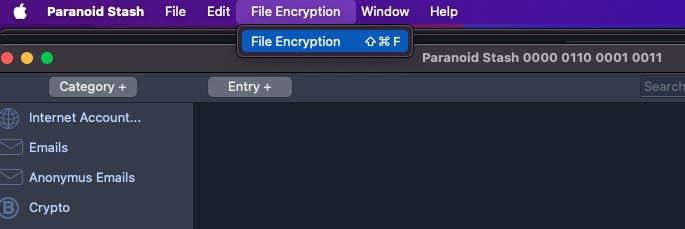
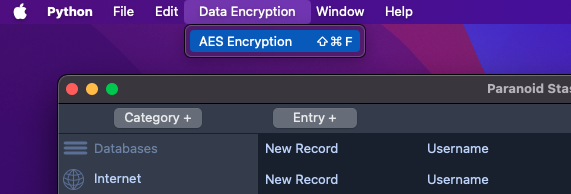
Removed large test file

diff --git a/GUI/modals/in_progress_popup.py b/GUI/modals/in_progress_popup.py
@@ -1,0 +1,236 @@
+import wx 
+
+from GUI.base_panel import BasePanel 
+
+
+#!/usr/bin/env python3
+
+
+
+import wx
+import pyperclip
+from pathlib import Path
+
+from manage_data.aes_encryption import AES_Encripton
+from GUI.base_panel import BasePanel
+from GUI.modals.popups import message_popup, select_file, save_file_as, dialog_popup
+from GUI.modals.copy_popup import CopyPopup
+
+# import logging 
+
+# Custom file handler that flushes after each log message
+# Custom stream handler that flushes after each log message
+# class FlushStreamHandler(logging.StreamHandler):
+#     def __init__(self, stream=None):
+#         super().__init__(stream)
+#         self.setLevel(logging.DEBUG)
+#         self.setFormatter(logging.Formatter('%(asctime)s - %(levelname)s - %(message)s'))
+    
+#     def emit(self, record):
+#         super().emit(record)
+#         self.flush()
+
+# # Set up logging to use FlushStreamHandler writing to a file
+# log_file = open("app.log", "a", buffering=1)
+# handler = FlushStreamHandler(stream=log_file)
+# logging.basicConfig(level=logging.DEBUG, handlers=[handler])
+
+
+
+class InProgressPanel(BasePanel):
+    def __init__(self, parent: wx.Frame) -> None:
+        super().__init__(parent)
+        
+        self._config = self._settings['file_encryption']
+        self._aes_encryption = AES_Encripton()
+        
+        self._init_ui()
+        self._bind_events()
+        
+        self.applay_color_theme()
+    
+    def _init_ui(self) -> None:
+        
+        main_box = wx.BoxSizer(wx.VERTICAL)
+        
+        file_path_box = wx.BoxSizer(wx.HORIZONTAL)
+        save_as_box = wx.BoxSizer(wx.HORIZONTAL)
+        password_box = wx.BoxSizer(wx.HORIZONTAL)
+        buttons_box = wx.BoxSizer(wx.HORIZONTAL)
+        
+        self._file = wx.TextCtrl(self, size=self._config['input_field_size'])
+        self._brows = wx.Button(self, label=self._config['brows_label'])
+        self._file.SetHint(self._config['file_hint'])
+        
+        self._save_as = wx.TextCtrl(self, size=self._config['input_field_size'], style=wx.TE_READONLY)
+        self._save_as.SetEditable(False)
+        self._copy_save_as = wx.Button(self, label=self._config['copy_label'])
+        self._save_as.SetHint(self._config['save_as_hint'])
+        
+        self._password = wx.TextCtrl(self, style=wx.TE_PROCESS_ENTER | wx.TE_PASSWORD, size=self._config['input_field_size'])
+        self._copy = wx.Button(self, label=self._config['copy_label'])
+        self._password.SetHint(self._config['password_hint'])
+        
+        self._decrypt = wx.Button(self, label=self._config['decrypt_label'])
+        self._encrypt = wx.Button(self, label=self._config['encrypt_label'])
+        
+        file_path_box.Add(self._file, 0, wx.RIGHT, 10)
+        file_path_box.Add(self._brows, 0, wx.TOP, 2)
+        
+        save_as_box.Add(self._save_as, 0, wx.RIGHT, 10)
+        save_as_box.Add(self._copy_save_as, 0, wx.TOP, 2)
+        
+        password_box.Add(self._password, 0, wx.RIGHT, 10)
+        password_box.Add(self._copy, 0, wx.TOP, 2)
+        
+        buttons_box.Add(self._decrypt)
+        buttons_box.Add(self._encrypt, 0, wx.LEFT, 40)
+        
+        main_box.Add(file_path_box, 0, wx.ALIGN_CENTER | wx.TOP, 30)
+        main_box.Add(save_as_box, 0, wx.ALIGN_CENTER | wx.TOP, 15)
+        main_box.Add(password_box, 0, wx.ALIGN_CENTER | wx.TOP, 30)
+        
+        main_box.Add(buttons_box, 0, wx.ALIGN_CENTER | wx.TOP, 30)
+        
+        self.SetSizer(main_box)
+        self.Layout()
+        
+    def _bind_events(self) -> None:
+        
+        self._decrypt.Bind(wx.EVT_BUTTON, self._on_decrypt)
+        self._encrypt.Bind(wx.EVT_BUTTON, self._on_encrypt)
+        
+        self._brows.Bind(wx.EVT_BUTTON, self._on_brows)
+        self._copy.Bind(wx.EVT_BUTTON, self._on_copy)
+        self._copy_save_as.Bind(wx.EVT_BUTTON, self._on_copy_save_as)
+    
+    def _validate_path_and_password(self) -> tuple[Path, str]:
+        file_path = self._file.GetValue()
+        # save_as = self._save_as.GetValue()
+        password = self._password.GetValue()
+        if not file_path:
+            raise ValueError("No file selected")
+        else:
+            path = Path(file_path)
+            if path.is_dir():
+                raise ValueError("Directory selected instead of single file.")
+            if not path.exists():
+                raise ValueError("File does not exist.")
+        if not password:
+            raise ValueError("No password provided.")
+        return path, password
+            
+    def _on_brows(self, event) -> None:
+        file_path = select_file()
+        if file_path is not None:
+            self._file.SetValue(file_path)
+        
+    def _on_copy(self, event: wx.Event) -> None:
+        password = self._password.GetValue()
+        if password:
+            pyperclip.copy(password)
+            copy_indicator = CopyPopup(self)
+            copy_indicator.Show()
+        
+    def _on_copy_save_as(self, event: wx.Event) -> None:
+        save_as_path = self._save_as.GetValue()
+        if save_as_path:
+            pyperclip.copy(save_as_path)
+            copy_indicator = CopyPopup(self)
+            copy_indicator.Show()
+            
+    def encryption(self, file_path: Path, password: str, decrypt: bool = False) -> bytes:
+        with open(file_path, 'rb') as f:
+            data_bytes = f.read()
+        if not decrypt:
+            result_bytes = self._aes_encryption.encrypt(password, data_bytes)
+        else:
+            try:
+                result_bytes = self._aes_encryption.decrypt(password, data_bytes)
+            except ValueError:
+                raise
+        return result_bytes
+    
+    def save_data_bytes(self, data: bytes, save_as: Path) -> None:
+        if save_as.exists():
+            confirmed = dialog_popup(message=self.settings['popup']['file_already_exists']['message'].format(save_as), title=self.settings['popup']['file_already_exists']['title'])
+            if not confirmed:
+                return
+        try:
+            with open(save_as, 'wb') as f:
+                    f.write(data)
+        except Exception as ex:
+                message_popup(message=self.settings['popup']['message']['exception'].format(ex), title=self.settings['popup']['error']['title'])
+        else:
+            message_popup(message=self.settings['popup']['message']['file_saved'].format(save_as), title=self.settings['popup']['success']['title'])
+        
+    def _on_encrypt(self, event: wx.Event) -> None:
+        try:
+            file_path, password = self._validate_path_and_password()
+        except ValueError as ex:
+            message_popup(message=f"{ex}", title=self.settings['popup']['error']['title'])
+        else:
+            save_as = Path(str(file_path) + self._config['encrypted_extension'])
+            self._save_as.SetValue(str(save_as))
+            try:
+                encrypted_bytes = self.encryption(file_path=file_path, password=password)
+            except Exception as ex:
+                message_popup(message=self.settings['popup']['message']['exception'].format(ex), title=self.settings['popup']['error']['title'])
+            else:
+                self.save_data_bytes(encrypted_bytes, save_as)
+        
+    def _on_decrypt(self, event: wx.Event) -> None:
+        try:
+            file_path, password = self._validate_path_and_password()
+        except ValueError as ex:
+            message_popup(message=f"{ex}", title=self.settings['popup']['error']['title'])
+        else:
+            extension = '.' + str(file_path).split('.')[-1]
+            if extension != self._config['encrypted_extension']:
+                message_popup(message=self.settings['popup']['message']['wrong_extension'].format(self._config['encrypted_extension'], extension), title=self.settings['popup']['error']['title'])
+                return
+            directory = file_path.parent
+            save_as = directory / file_path.stem
+            try:
+                decrypted_bytes = self.encryption(file_path=file_path, password=password, decrypt=True)
+            except ValueError:
+                another_try = dialog_popup(self.settings['get_password']['wrong_password']['message'], self.settings['get_password']['wrong_password']['title'], yes_default=True)
+                if not another_try:
+                    self._on_cancel()
+                return 
+            except Exception as ex:
+                message_popup(message=self.settings['popup']['message']['exception'].format(ex), title=self.settings['popup']['error']['title'])
+            else:
+                self.save_data_bytes(decrypted_bytes, save_as)
+                
+    def _on_cancel(self, event: wx.Event | None = None):
+        self.GetParent().Destroy()
+    
+    def applay_color_theme(self):
+        self._text_colour = self._color_themes[self._current_theme]['text']
+        self._input_background_colour = self._color_themes[self._current_theme]['input_background']
+        
+        self._file.SetForegroundColour(self._text_colour)
+        self._save_as.SetForegroundColour(self._text_colour)
+        self._password.SetForegroundColour(self._text_colour)
+        
+        self._file.SetBackgroundColour(self._input_background_colour )
+        self._save_as.SetBackgroundColour(self._input_background_colour )
+        self._password.SetBackgroundColour(self._input_background_colour )
+        
+        self.SetBackgroundColour(self._color_themes[self._current_theme]['dark'])
+        
+        self.Refresh()
+
+
+class InProgressFrame(wx.Frame):
+    def __init__(self, settings: dict) -> None:
+        
+        super().__init__(None, style=wx.CLOSE_BOX | wx.CAPTION, title=settings['in_progress_popup']['title'])
+        
+        self.CenterOnScreen()
+        self._init_ui()
+        
+    def _init_ui(self) -> None:
+        panel = InProgressPanel(self)
+
